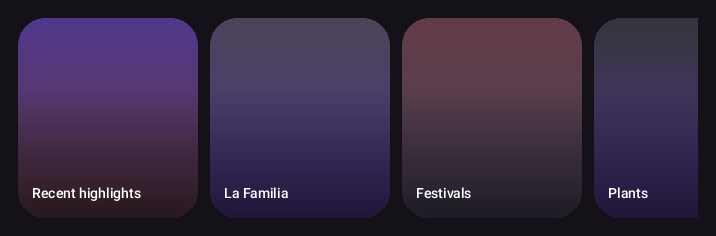
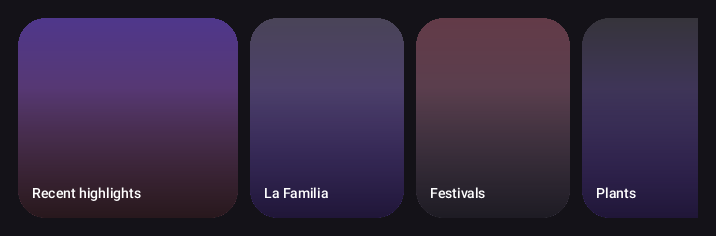
docs: explain the animated carousel cards
The carousel page documents shrink and the growing next card, with new pictures
that show the leading card wider than the rest; the item page says its width is
the leading width.

Changed region(s): [[0.2458, 0.0593, 0.4609, 0.9492], [0.5223, 0.0593, 0.676, 0.9195], [0.7682, 0.0593, 0.9218, 0.9195]]

diff --git a/docs/components/carousel.md b/docs/components/carousel.md
@@ -45,13 +45,19 @@ Carousel {
 | `gap` | number | alias of `spacing` |
 | `crossAxisAlign` | enum | `start`, `center`, `end`, `stretch`; card height inside the strip. `stretch` is the default, so cards fill the carousel's height |
 | `mainAxisAlign` | enum | `start`, `center`, `end`, `spaceBetween`, `spaceAround`, `spaceEvenly`; places the run along the strip |
+| `shrink` | number | width of a card that is not leading, as a share of its declared width; 0.7 by default, 1 for equal cards |
 | `scrollSnapType` | enum | `mandatory` (default), `proximity` or `none`; `none` leaves the strip scrolling freely |
 
 ## Behaviour
 
-- A card is a [CarouselItem](carouselitem.md). An undeclared card width is
-  180dp, and the strip's height sets every card's height, so a row of cards
-  lines up even when they hold different pictures.
+- A card is a [CarouselItem](carouselitem.md). Its declared width is the width
+  it takes while it leads the strip; an undeclared card is 180dp. The strip's
+  height sets every card's height, so a row of cards lines up even when they
+  hold different pictures.
+- Every card that is not leading is `shrink` of that width, 70% by default. The
+  leading card stays full while it scrolls away, and the card after it grows
+  from the shrunk width to the full width as the strip moves, so the width
+  change follows the drag and the fling. `shrink: 1` gives equal cards.
 - The next card peeks in whenever the strip's width is not an exact multiple of
   the card width. That is what tells the reader there is more to scroll.
 - A wheel notch, a drag or a fling settles on a card's leading edge

diff --git a/docs/components/carouselitem.md b/docs/components/carouselitem.md
@@ -47,9 +47,11 @@ and a `Positioned` child anchors itself inside it.
   stays readable over a picture. The scrim and the label paint above the child.
 - The card ripples from the pointer when it has an `onClick`, the same feedback
   a button gives.
-- Inside a `Carousel` the card fills the strip's height; without a declared
-  width it takes the 180dp card default. An `Image` or other child with no size
-  fills the card.
+- Inside a `Carousel` the card fills the strip's height, and the width it
+  declares is the width it takes while it leads. A card that is not leading is
+  `shrink` of that width (70% by default); the next card grows back to full as
+  it comes in. Without a declared width it takes the 180dp card default. An
+  `Image` or other child with no size fills the card.
 
 ## From Go
 
